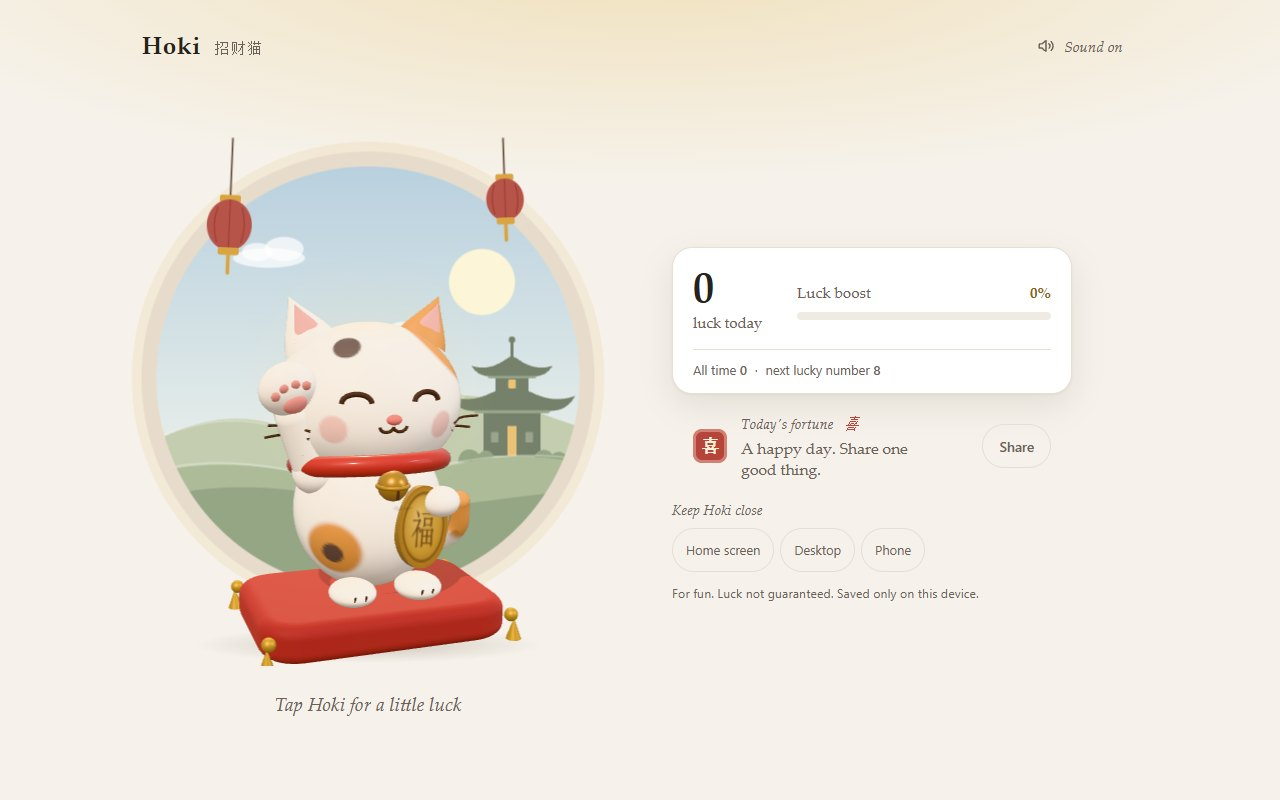
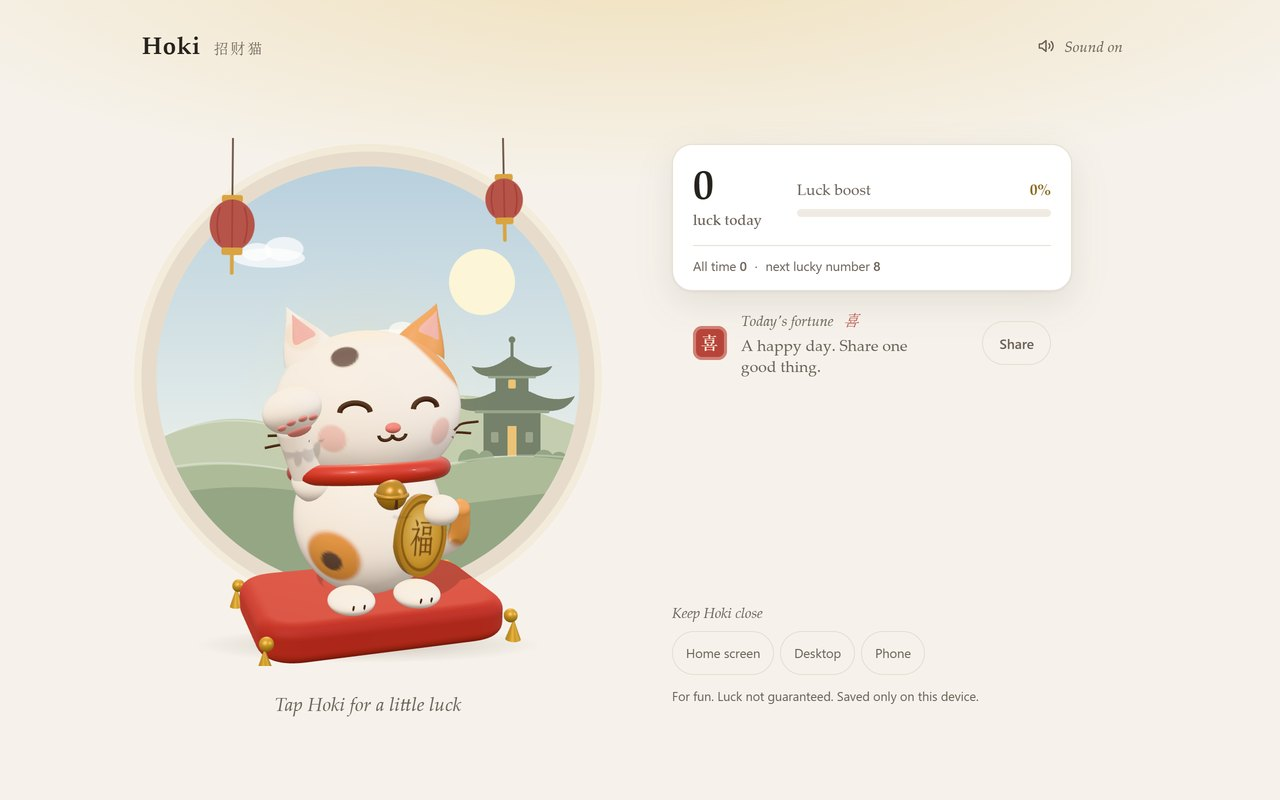
hoki: v3.0.2 hero + night gallery shots, H13 landing log entry

diff --git a/p/hoki/index.html b/p/hoki/index.html
@@ -667,7 +667,7 @@ html.dna.dna.dna { --fd: "Shippori Mincho", var(--fd-fallback); --fdw: 700; --fd
     <div class="hood"><div class="hood-card">
         <h3>Built with</h3><div class="sg"><span>Language</span><div class="chips"><b class=chip>PowerShell</b><b class=chip>JavaScript</b><b class=chip>Python</b><b class=chip>HTML/CSS</b></div></div><div class="sg"><span>Platform</span><div class="chips"><b class=chip>PWA</b><b class=chip>Offline service worker</b></div></div><p class="repo-line">24 files in the repo · last updated 8 Nov 2026.</p>
         <a class="go" href="https://github.com/juw12/hoki">Browse the code <svg viewBox="0 0 24 24" aria-hidden="true"><path d="M5 12h13M13 6l6 6-6 6" fill="none" stroke="currentColor" stroke-width="2.2" stroke-linecap="round" stroke-linejoin="round"/></svg></a>
-      </div><div class="hood-card"><h3>Recently shipped</h3><ol class="log"><li><time datetime="2026-11-08">8 Nov 2026</time><p>Hone v4: richer calico cat, engraved koban, toast below header, v2.0.2</p></li><li><time datetime="2026-11-08">8 Nov 2026</time><p>Hone v2: tapered arm, labelled sound pill, two-column desktop, top toast</p></li><li><time datetime="2026-11-07">7 Nov 2026</time><p>Retro pixel redesign: sprite cat with 3-frame beckoning paw pixel UI</p></li><li><time datetime="2026-11-07">7 Nov 2026</time><p>Installer: match the cat&#x27;s default position in the message</p></li><li><time datetime="2026-11-07">7 Nov 2026</time><p>Waving lucky cat PWA + Windows desktop widget</p></li></ol><a class="go" href="https://github.com/juw12/hoki/commits/main">Full history on GitHub <svg viewBox="0 0 24 24" aria-hidden="true"><path d="M5 12h13M13 6l6 6-6 6" fill="none" stroke="currentColor" stroke-width="2.2" stroke-linecap="round" stroke-linejoin="round"/></svg></a></div></div>
+      </div><div class="hood-card"><h3>Recently shipped</h3><ol class="log"><li><time datetime="2026-11-09">9 Nov 2026</time><p>H13: the judges&#x27; asks &#x2014; symmetric face, body shading to match the head, desktop lower-right filled, v3.0.2</p></li><li><time datetime="2026-11-08">8 Nov 2026</time><p>Hone v4: richer calico cat, engraved koban, toast below header, v2.0.2</p></li><li><time datetime="2026-11-08">8 Nov 2026</time><p>Hone v2: tapered arm, labelled sound pill, two-column desktop, top toast</p></li><li><time datetime="2026-11-07">7 Nov 2026</time><p>Retro pixel redesign: sprite cat with 3-frame beckoning paw pixel UI</p></li><li><time datetime="2026-11-07">7 Nov 2026</time><p>Installer: match the cat&#x27;s default position in the message</p></li><li><time datetime="2026-11-07">7 Nov 2026</time><p>Waving lucky cat PWA + Windows desktop widget</p></li></ol><a class="go" href="https://github.com/juw12/hoki/commits/main">Full history on GitHub <svg viewBox="0 0 24 24" aria-hidden="true"><path d="M5 12h13M13 6l6 6-6 6" fill="none" stroke="currentColor" stroke-width="2.2" stroke-linecap="round" stroke-linejoin="round"/></svg></a></div></div>
   </section>
   <section class="block alt wrap reveal" id="faq">
     <div class="kicker">Questions</div>
